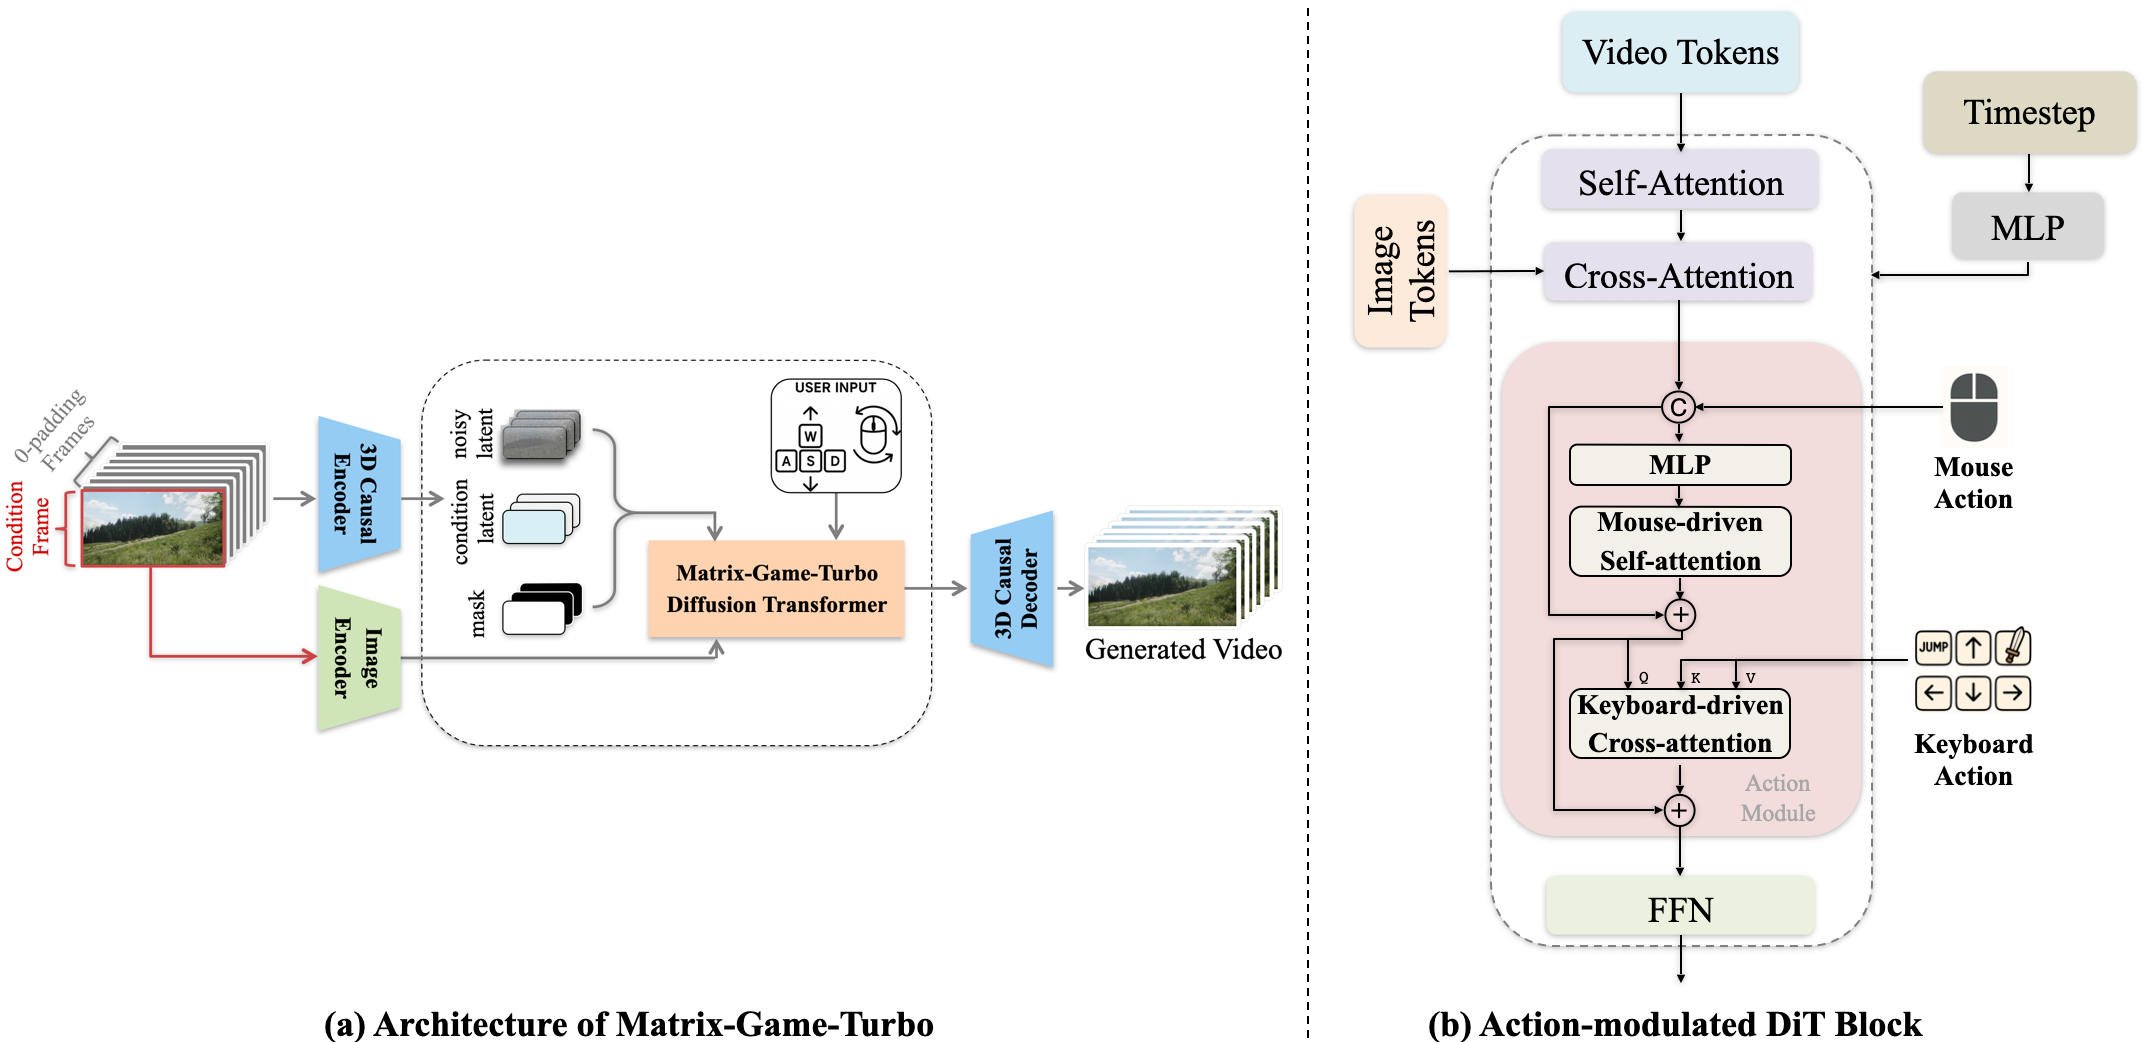
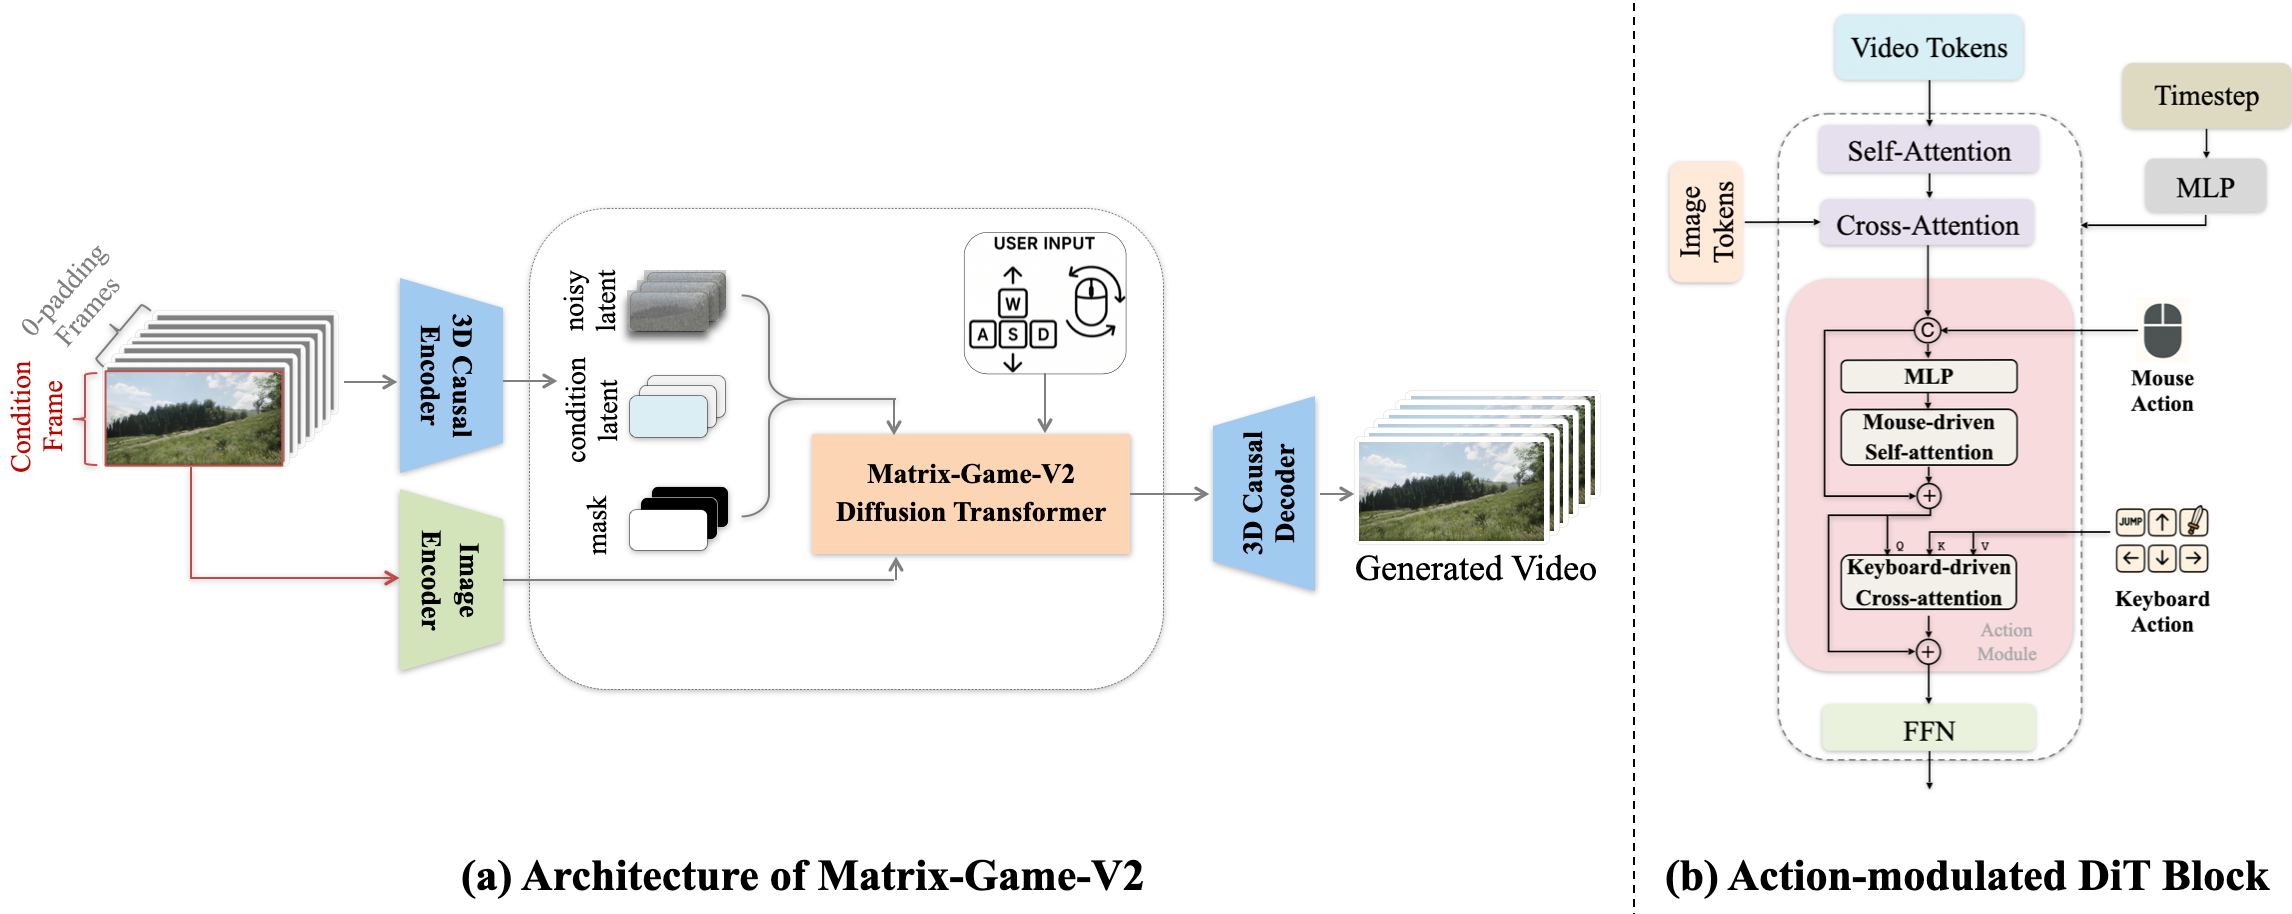
update materials and information

Changed region(s): [[0.0, 0.0, 1.0, 0.919], [0.6471, 0.919, 1.0, 1.0], [0.1541, 0.919, 0.493, 1.0]]

diff --git a/index.html b/index.html
@@ -17,31 +17,38 @@
 </head>
 <body>
   
-<section class="hero" style="background: url('static/imgs/matrix-2.0.jpeg') no-repeat center center fixed; background-size: cover;">
+<section class="hero" style="background: url('static/imgs/cover.png') no-repeat center center fixed; background-size: cover;">
   <div class="hero-body has-text-centered" style="background-color: rgba(255,255,255,0.85);">
-    <h1 class="title is-1">Matrix-Game 2.0:<br>An Open-Source, Real-Time, and Streaming Interactive World Model</h1>
+    <h1 class="title is-1">Matrix-Game 2.0:<br>An Open-Source, Real-Time, and Streaming<br> Interactive World Model</h1>
   
     <p>
-      <!-- <strong>Yifan Zhang</strong><sup>*</sup>&nbsp;
+      <strong>Xianglong He</strong><sup>*</sup>&nbsp;
       <strong>Chunli Peng</strong><sup>*</sup>&nbsp; 
+      <strong>Zexiang Liu</strong><sup>*</sup>&nbsp; 
       <strong>Boyang Wang</strong><sup>*†</sup>&nbsp;
-      <strong>Puyi Wang</strong>&nbsp;
-      <strong>Qingcheng Zhu</strong>&nbsp;
-      <strong>Fei Kang</strong><br>
+      <strong>Yifan Zhang</strong><br>
+      <strong>Qi Cui</strong>&nbsp;
+      <strong>Fei Kang</strong>&nbsp;
       
       <strong>Biao Jiang</strong>&nbsp;
-      <strong>Zedong Gao</strong>&nbsp; 
-      <strong>Eric Li</strong>&nbsp; 
-      <strong>Yang Liu</strong>&nbsp; 
-      <strong>Yahui Zhou</strong> -->
+      <strong>Mengyin An</strong>&nbsp; 
+      <strong>Yangyang Ren</strong>&nbsp; 
+      <strong>Baixin Xu</strong><br>
+      <strong>Haoxiang Guo</strong>&nbsp; 
+
+      <strong>Kaixiong Gong</strong>&nbsp; 
+      <strong>Xuchen Song</strong>&nbsp; 
+      <strong>Yang Liu</strong><sup>‡</sup>&nbsp; 
+      <strong>Eric Li</strong><sup>‡</sup>&nbsp; 
+      <strong>Yahui Zhou</strong>
     </p>
     <p><em>Skywork AI</em></p>
   
     <p style="margin-top:1rem;">
-      <a href="#" class="button is-dark is-small is-rounded">
+      <a href="https://github.com/SkyworkAI/Matrix-Game/blob/main/Matrix-Game-2/assets/pdf/report.pdf" class="button is-dark is-small is-rounded">
         <span class="icon"><i class="ai ai-arxiv"></i></span><span>Technical Report</span>
       </a>
-      <a href="https://github.com/SkyworkAI/Matrix-Game-2.0" class="button is-dark is-small is-rounded">
+      <a href="https://github.com/SkyworkAI/Matrix-Game/tree/main/Matrix-Game-2" class="button is-dark is-small is-rounded">
         <span class="icon"><i class="fab fa-github"></i></span><span>GitHub</span>
       </a>
       <a href="https://huggingface.co/Skywork/Matrix-Game-2.0" class="button is-dark is-small is-rounded">
@@ -63,19 +70,19 @@
       Recent advances in interactive video generations have demonstrated diffusion
       model’s potential as world models by capturing complex physical dynamics and
       interactive behaviors. However, existing interactive world models depend on
-      bidirectional attention and lengthy inference steps, severely limiting real-time per-
-      formance. Consequently, they are hard to simulate real-world dynamics, where
+      bidirectional attention and lengthy inference steps, severely limiting real-time performance.
+      Consequently, they are hard to simulate real-world dynamics, where
       outcomes must update instantaneously based on historical context and current
       actions. To address this, we present Matrix-Game 2.0, an interactive world model
-      generates long videos on-the-fly via few-step auto-regressive diffusion. Our frame-
-      work consists of three key components: (1) A scalable data production pipeline for
+      generates long videos on-the-fly via few-step auto-regressive diffusion. Our framework
+      consists of three key components: (1) A scalable data production pipeline for
       Unreal Engine and GTA5 environments to effectively produce massive amounts (∼
-      1350 hours) of interactive video data; (2) An action injection module that enables
-      frame-level mouse and keyboard input as interactions; (3) A few-step distillation for
-      real-time, streaming video generation. Matrix-Game 2.0 can generate high-quality
-      minute-level videos across diverse scenes at an ultra-fast speed of 25 FPS. We
-      open-source our model weights, codebase, and data production pipeline to advance
-      research in interactive world modeling.
+      1200 hours) of interactive video data; (2) An action injection module that enables
+      frame-level mouse and keyboard input as interactions; (3) A few-step distillation
+      based on the casual architecture for real-time, streaming video generation. <strong>Matrix-Game
+      2.0 can generate high-quality minute-level videos across diverse scenes at
+      an ultra-fast speed of 25 FPS.</strong> We open-source our model weights and codebase to
+      advance research in interactive world modeling.
       </div>
 
     <!-- Video (placed directly below abstract text) -->
@@ -97,7 +104,7 @@
 
     <h2 class="title is-2 has-text-centered">Model Overview</h2>
     <div class="box mt-6"> 
-      <p><strong> The foundation model is derived from the Wan. By removing the text branch and adding action modules, the model predicts next frames only from visual contents and corresponding actions.</strong></p>
+      <p><strong> The foundation model is derived from WanX. By removing the text branch and adding action modules, the model predicts next frames only from visual contents and corresponding actions.</strong></p>
       <div class="table-container">
         <img src="static/imgs/architecture.png" alt="Matrix Game" style="width: 100%; height: auto;">
       </div> 
@@ -142,7 +149,7 @@
     <!-- GameWorld Score Benchmark -->
     <div class="box">
       <h3 class="title is-4"> GameWorld Score Benchmark Comparison</h3>
-      <p><strong>Matrix-Game 2.0 achieves consistently best performance on the GameWorld Score benchmark.</strong></p>
+      <p><strong>Matrix-Game 2.0 achieves excellent performance on the GameWorld Score benchmark in Minecraft scenes.</strong></p>
       <div class="table-container">
         <table class="table is-fullwidth is-hoverable">
           <thead>
@@ -239,13 +246,14 @@
   <li><a href="https://github.com/minerllabs/minerl">MineRL</a> for their excellent gym framework</li>
   <li><a href="https://github.com/openai/Video-Pre-Training">Video-Pre-Training</a> for their accurate Inverse Dynamics Model</li>
   <li><a href="https://github.com/KwaiVGI/GameFactory">GameFactory</a> for their idea of action control module</li>
+  <li><a href="https://github.com/madebyollin/taehv/">TAEHV-VAE</a> for their excellent work for accelerating VAE decoding</li>
 </ul>
 
 <p>We are grateful to the broader research community for their open exploration and contributions to the field of interactive world generation.</p>
-</div>
+<!-- </div>
       <h2 class="title is-3">Citation</h2>
 <pre>
-<code>xxxxx</code>
+<code>xxxxx</code> -->
 </pre>
 </div>
 </section>
